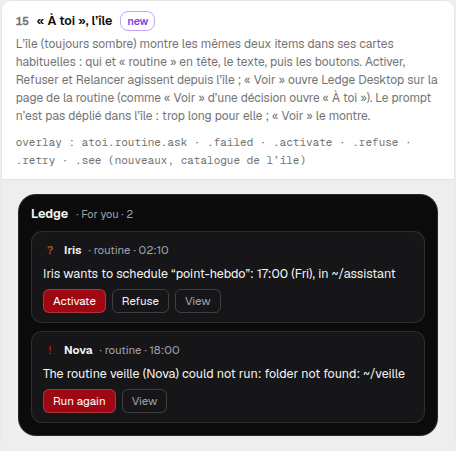
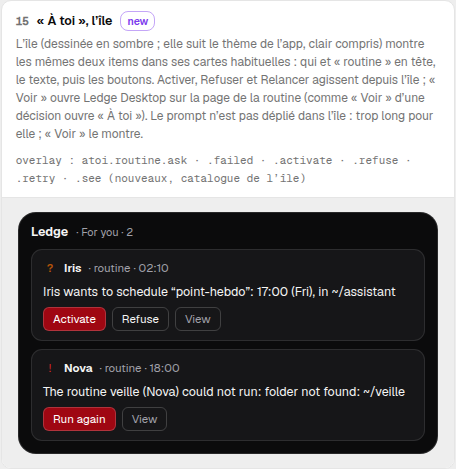
docs(mockups): Routines — the island follows the app's theme; question on a group's prompts on the phone
Card 15 said the island is always dark: the overlay has light and dark
themes (notch.css), so the routine bubble follows the theme. Card 31 asks jde
how the phone shows a group's prompts before « Activer les 3 », since an
approval is bound to what was read (A: unfolded like a single request,
recommended; B: folded, activation after reading).

diff --git a/docs/mockups/ledge-routines.html b/docs/mockups/ledge-routines.html
@@ -217,7 +217,7 @@ main{padding:20px;display:grid;grid-template-columns:repeat(auto-fill,minmax(380
 .side .row small{display:block;color:var(--muted-foreground);font-size:11px}
 .side .row .acts{display:flex;gap:5px;margin-top:5px;flex-wrap:wrap}
 
-/* The island's « À toi » (overlay, 420 px, always dark like the island). */
+/* The island's « À toi » (overlay, 420 px), drawn dark; the island follows the app's theme (light too). */
 .island{width:420px;background:#0b0b0c;color:#f5f5f5;border:1px solid #ffffff1f;border-radius:18px;padding:10px 12px 12px;display:flex;flex-direction:column;gap:8px;font-size:12.5px;--muted-foreground:#a1a1aa;--input:#ffffff2e;--border:#ffffff1a;--hover:#ffffff12}
 .island .ih{display:flex;align-items:center;gap:8px;font-size:11px;color:#a1a1aa}
 .island .ih b{color:#f5f5f5;font-size:12.5px}
@@ -721,7 +721,7 @@ function atoiCards(){
       <div class="row"><span class="mk ask">?</span><div><b>Iris</b> · ${x.pRoutine.toLowerCase()}<small>${L==='fr'?'veut programmer « point-hebdo » : 17:00 (ven), dans ~/assistant':'wants to schedule “point-hebdo”: 17:00 (Fri), in ~/assistant'}</small><div class="acts"><button class="btn pri">${x.activate}</button><button class="btn">${x.refuse}</button><button class="btn ghost">${x.see}</button></div></div></div>
       <div class="row"><span class="mk bad">!</span><div><b>Nova</b> · ${x.pRoutine.toLowerCase()}<small>${L==='fr'?'veille n’a pas pu partir : dossier introuvable : ~/veille':'veille could not run: folder not found: ~/veille'}</small><div class="acts"><button class="btn pri">${x.retry}</button><button class="btn ghost">${x.see}</button></div></div></div></div>`});
   C.push({tag:'new', title:'« À toi », l’île',
-    why:'L’île (toujours sombre) montre les mêmes deux items dans ses cartes habituelles : qui et « routine » en tête, le texte, puis les boutons. Activer, Refuser et Relancer agissent depuis l’île ; « Voir » ouvre Ledge Desktop sur la page de la routine (comme « Voir » d’une décision ouvre « À toi »). Le prompt n’est pas déplié dans l’île : trop long pour elle ; « Voir » le montre.',
+    why:'L’île (dessinée en sombre ; elle suit le thème de l’app, clair compris) montre les mêmes deux items dans ses cartes habituelles : qui et « routine » en tête, le texte, puis les boutons. Activer, Refuser et Relancer agissent depuis l’île ; « Voir » ouvre Ledge Desktop sur la page de la routine (comme « Voir » d’une décision ouvre « À toi »). Le prompt n’est pas déplié dans l’île : trop long pour elle ; « Voir » le montre.',
     keys:'overlay : atoi.routine.ask · .failed · .activate · .refuse · .retry · .see (nouveaux, catalogue de l’île)',
     scene: `<div class="island"><div class="ih"><b>Ledge</b><span>· ${x.atoi} · 2</span></div>
       <div class="it"><div class="who"><span class="mk ask">?</span><b>Iris</b><span>· ${x.pRoutine.toLowerCase()} · 02:10</span></div><span>${L==='fr'?'Iris veut programmer « point-hebdo » : 17:00 (ven), dans ~/assistant':'Iris wants to schedule “point-hebdo”: 17:00 (Fri), in ~/assistant'}</span><div class="acts"><button class="btn pri">${x.activate}</button><button class="btn">${x.refuse}</button><button class="btn ghost">${x.see}</button></div></div>
@@ -1097,11 +1097,33 @@ function fallbackCards(){
       <div class="tui" style="width:300px;white-space:normal"><span class="warn">?</span> ${P.askTui}<br><span class="bad">!</span> ${P.fail}</div></div>`}];
 }
 
+/* Question for jde (2026-11-23, review of chunk 3): on the phone, « Activer les 3 » must not approve prompts nobody has read
+   (contract qitem-20261123024904-34c8a331: approval is bound to the key of what was shown). */
+function groupPromptCards(){
+  const x = t(), fr = L==='fr';
+  const a = A(), d = D();
+  const items = [['prepa-121', `${d.thu3} 16:00`, 'Prépare le 121 du 4 déc. : réalisations depuis le dernier 121 (synthèses hebdo), sujets à demander. Écris prepa-121/{date}.md.'],
+                 ['prepa-comite-archi', `${d.mon7} 15:00`, 'Prépare le comité d’architecture du 8 déc. : ADR ouverts, changements du dépôt Archi, sujets à lever.'],
+                 ['prepa-demo-compart', `${d.tue8} 09:30`, 'Prépare la démo Compart du 8 déc. à 11:00 : état du connecteur, questions ouvertes, ce qu’il faut montrer.']];
+  const P = fr ? {see:'Voir les prompts', gate:'Lis les prompts avant d’activer.', dir:'dans ~/assistant', q:'Question pour jde'} : {see:'See the prompts', gate:'Read the prompts before activating.', dir:'in ~/assistant', q:'Question for jde'};
+  const stat = `<div class="stat"><span>13:02</span><span>●●● 5G</span></div>`;
+  const tabbar = `<div class="tabbar">${x.tabs.map((n,i)=>`<span class="${i===0?'on':''}"><i></i>${n}${i===0?`<em class="b">1</em>`:''}</span>`).join('')}</div>`;
+  const head = `<div class="top"><span class="pill ask">${x.pAsk}</span><span class="meta">${x.pRoutine} · 02:58</span></div><div style="display:flex;gap:9px;align-items:flex-start">${bot('#e8735a','work')}<div><b>Iris</b> ${a.groupAsk('',3).replace(/^ /,'')} <span class="meta">${P.dir}</span></div></div>`;
+  const open = items.map(([n,w,p]) => `<div style="display:flex;flex-direction:column;gap:4px"><span style="font-size:13px"><b style="font-weight:600">${n}</b> <span class="meta">· ${w}</span></span><div class="unfold" style="margin:0;font-size:11.5px">${p}</div></div>`).join('');
+  const closed = items.map(([n,w]) => `<span style="font-size:13px"><span style="color:var(--foreground)">${n}</span> <span class="meta">· ${w}</span></span>`).join('');
+  const A1 = `<div class="phone">${stat}<div class="hd"><h3>${x.atoi}</h3></div><div class="cnt" style="overflow:hidden"><div class="pcard pending">${head}${open}<div class="acts"><button class="btn pri">${a.activateAll(3)}</button><button class="btn">${a.refuseAll(3)}</button></div><div class="meta" style="font-size:12px">${x.pVerify}</div></div></div>${tabbar}</div>`;
+  const B1 = `<div class="phone">${stat}<div class="hd"><h3>${x.atoi}</h3></div><div class="cnt"><div class="pcard pending">${head}<div style="display:flex;flex-direction:column;gap:4px">${closed}</div><button class="btn ghost" style="align-self:flex-start;height:32px;font-size:13px">▸ ${P.see}</button><div class="acts"><button class="btn pri" disabled>${a.activateAll(3)}</button><button class="btn">${a.refuseAll(3)}</button></div><div class="meta" style="font-size:12px">${P.gate}</div></div></div>${tabbar}</div>`;
+  return [{tag:'q', title:'Téléphone : lire les prompts d’un groupe avant « Activer les 3 » (question)', wide:true,
+    why:'Relevé par la revue : sur le téléphone, une demande seule montre son prompt déplié (carte 17), mais la carte groupée (carte 25) activait trois routines sans montrer leurs prompts ni leur dossier. Or une approbation est liée à ce qui a été lu (contrat de revue du lot 1). <b>A (recommandé)</b> : la carte groupée se comporte comme la demande seule, chaque routine avec son moment et son prompt déplié (un prompt identique n’est montré qu’une fois) ; la carte est plus longue, mais rien n’est approuvé sans être lu, et il n’y a rien de plus à apprendre. <b>B</b> : prompts repliés derrière « Voir les prompts », « Activer les 3 » grisé tant qu’ils ne sont pas dépliés, avec « Lis les prompts avant d’activer. ». Dans les deux cas, le téléphone lit le détail de chaque routine avant d’activer. <b>L’île</b> : elle n’a jamais montré de prompt (carte 14) mais vit sur le PC ; la même question peut s’y poser, je ne propose rien tant que jde ne le demande pas.',
+    keys:'mobile : routines.seePrompts · routines.readBeforeActivate (B seulement)',
+    scene: `<div class="col"><div class="cap">A · ${fr?'prompts dépliés (recommandé)':'prompts unfolded (recommended)'}</div>${A1}</div><div class="col"><div class="cap">B · ${fr?'repliés, activation après lecture':'folded, activate after reading'}</div>${B1}</div>`}];
+}
+
 function render(){
   const x = t();
   document.getElementById('h1').textContent = x.h1;
   document.getElementById('hsub').textContent = x.hsub;
-  const all = [...cards(), ...atoiCards(), pointCard(), ...phoneCards(), tuiCard(), ...addCards(), ...precCards(), ...precDesktopCards(), ...precPhoneCards(), ...fallbackCards()];
+  const all = [...cards(), ...atoiCards(), pointCard(), ...phoneCards(), tuiCard(), ...addCards(), ...precCards(), ...precDesktopCards(), ...precPhoneCards(), ...fallbackCards(), ...groupPromptCards()];
   document.getElementById('main').innerHTML = all.map((c,i)=>`<article class="card ${c.wide?'wide':''} ${c.tag==='add'?'addc':''}" id="s${i+1}"><h2><span class="n">${i+1}</span>${c.title}<span class="tag ${c.tag}">${c.tag==='add'?(L==='fr'?'ajout':'addition'):c.tag==='q'?(L==='fr'?'à trancher':'to decide'):(L==='fr'?'nouveau':'new')}</span></h2><div class="why">${c.why}</div><div class="keys">${c.keys && c.keys!=='—'?'<code>'+c.keys+'</code>':''}</div><div class="scene">${c.scene}</div></article>`).join('') + fiche();
 }
 function set(kind, v){
